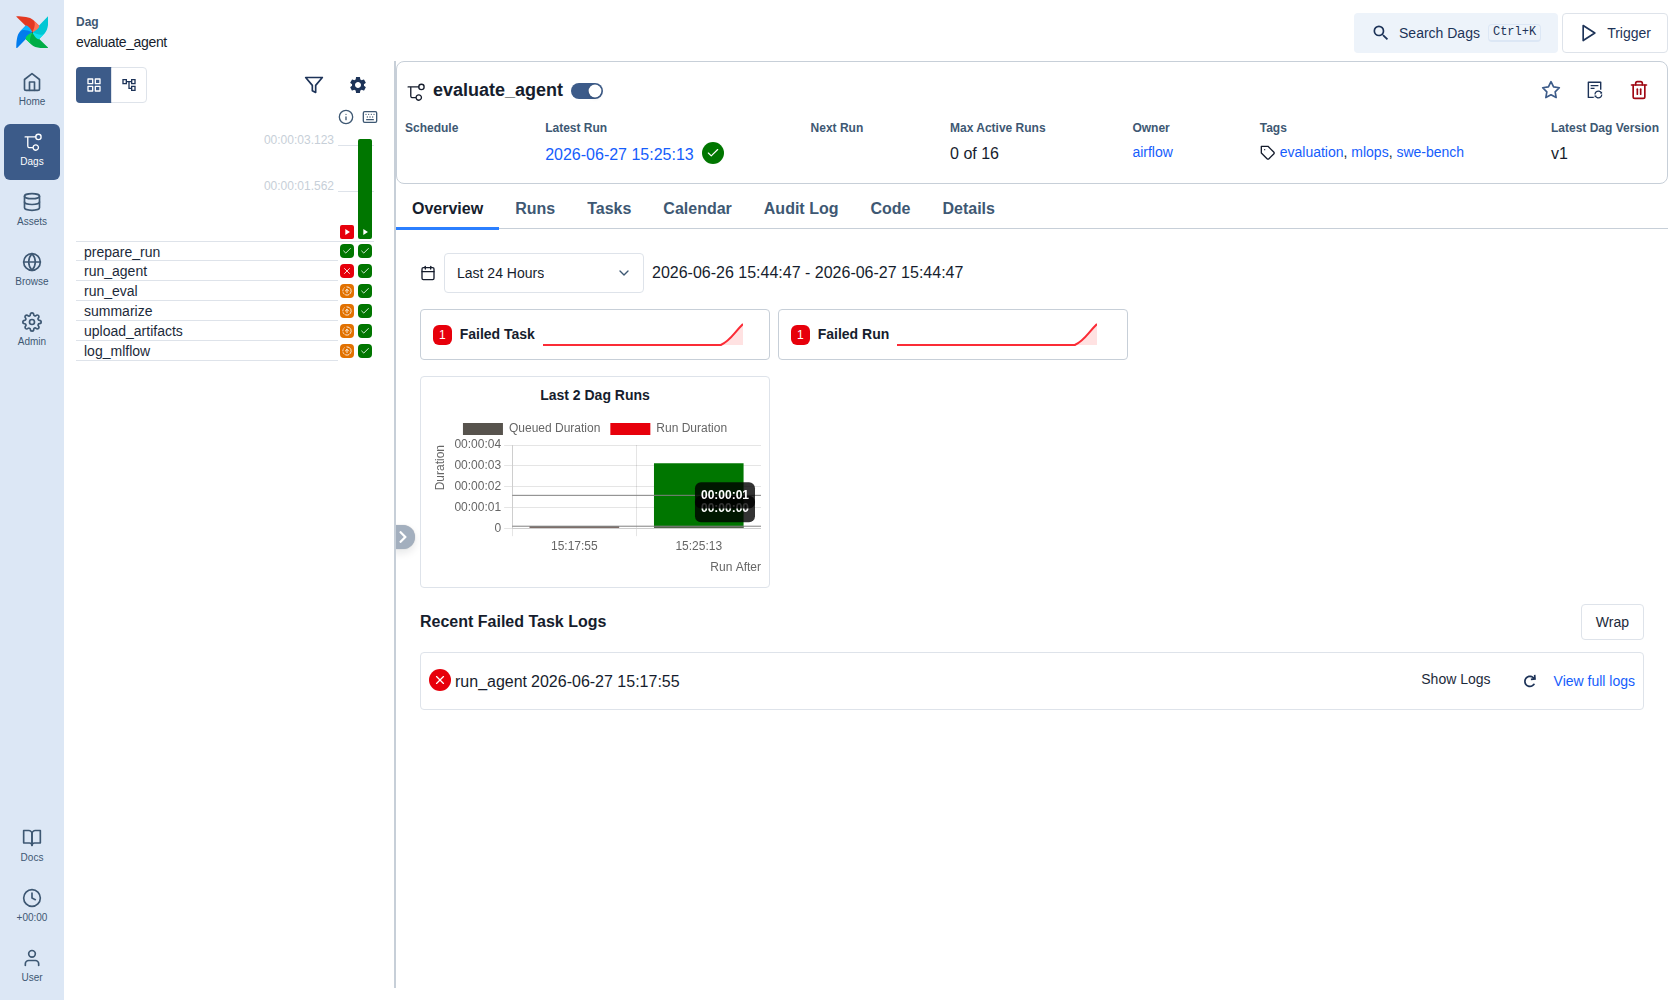
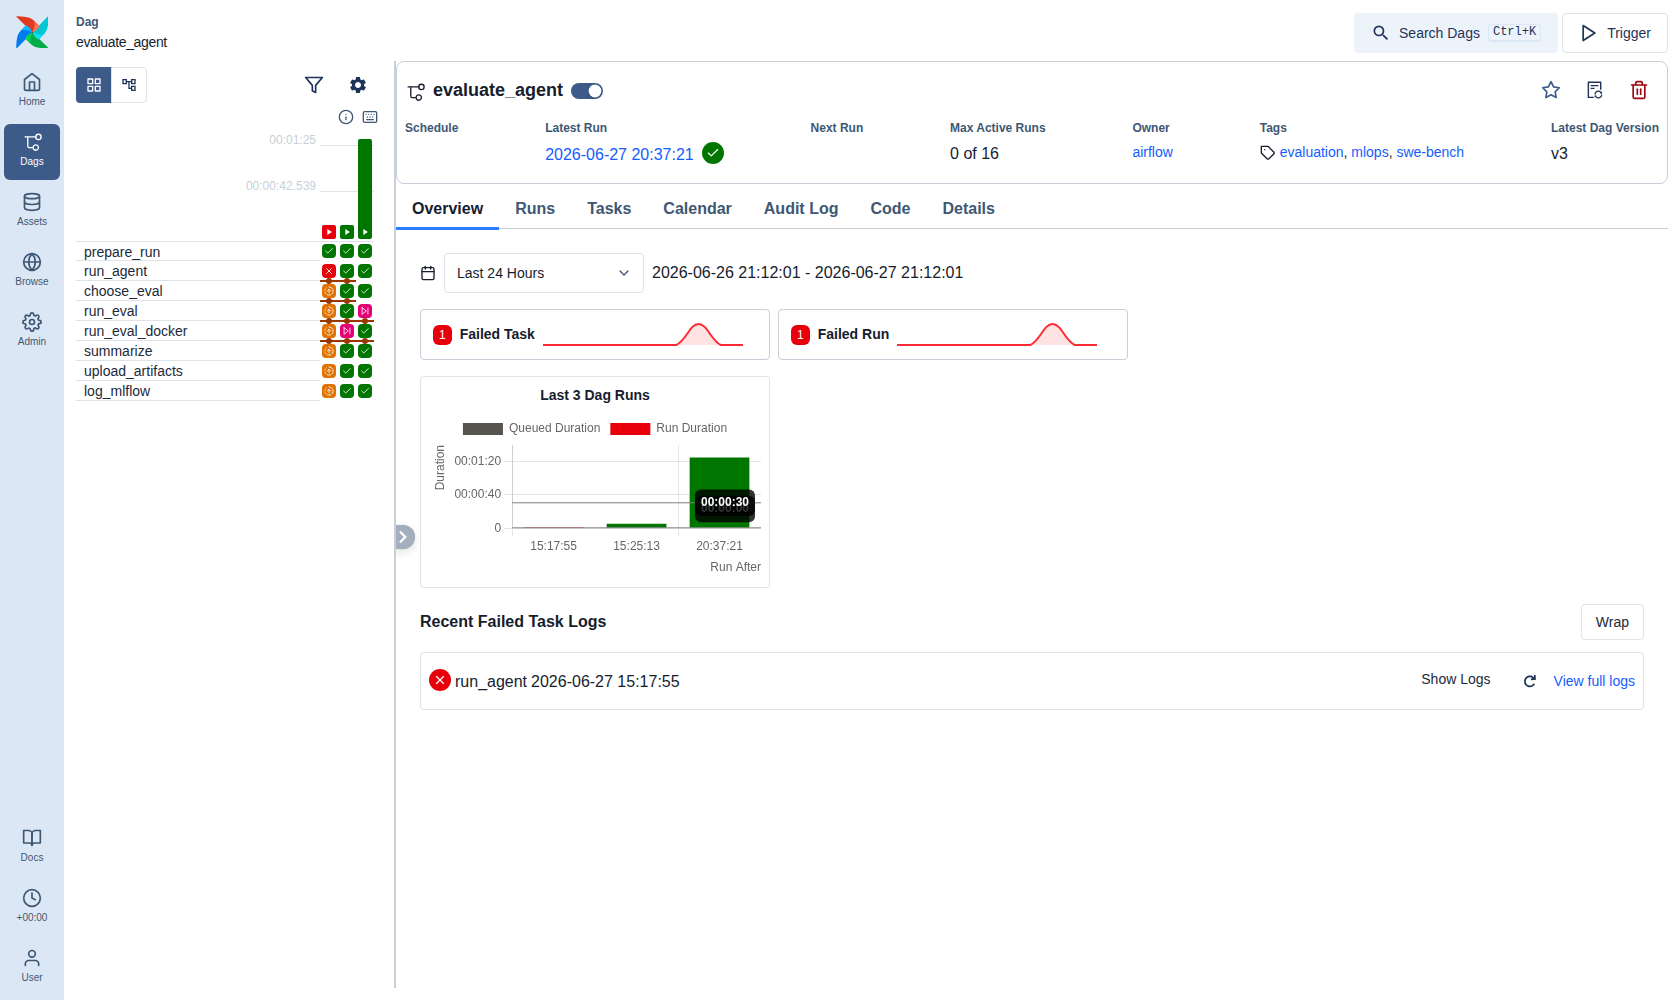
@ Fix DockerOperator command + MLflow screenshot host header
DockerOperator path:
- DockerOperator execs argv directly (no implicit shell), so a string command
  made Docker try to exec `set` ("executable file not found in $PATH"). Wrap as
  ["/bin/sh", "-c", <script>]. Verified e2e on the VM compose stack
  (docker-op-01, eval_executor=docker): choose_eval -> run_eval_docker, eval ran
  in mlops-assignment:latest, instance resolved (resolve_rate 1.0).

MLflow screenshot:
- mlflow_runs.png had captured MLflows DNS-rebinding error page. Cause: the
  --allowed-hosts list had bare 127.0.0.1 but not 127.0.0.1:5000, while the
  capture script navigates to http://127.0.0.1:5000 (MLflow checks host+port).
  Add 127.0.0.1:5000 to --allowed-hosts; re-captured all three screenshots
  (mlflow_runs.png now shows the swe-bench-eval runs table incl. docker-op-01).

@

diff --git a/dags/evaluate_agent.py b/dags/evaluate_agent.py
@@ -188,7 +188,9 @@ def evaluate_agent():
         run_eval_docker = DockerOperator(
             task_id="run_eval_docker",
             image="{{ params.eval_image }}",
-            command=docker_eval_command,
+            # DockerOperator execs argv directly (no implicit shell), so wrap the
+            # script in `sh -c` — otherwise `&&`/`cd`/`set` aren't understood.
+            command=["/bin/sh", "-c", docker_eval_command],
             docker_url="unix:///var/run/docker.sock",
             network_mode="bridge",
             auto_remove="success",

diff --git a/REPORT.md b/REPORT.md
@@ -246,10 +246,13 @@ To use the docker path, build the project image once:
 docker build -t mlops-assignment:latest .
 ```
 
-> **Status:** the `subprocess` path is verified end-to-end (standalone +
-> compose). The `DockerOperator` path is implemented and parses but has **not
-> yet been run end-to-end on the VM** — build the image above and trigger with
-> `eval_executor=docker` to exercise it.
+> **Status:** both paths are verified end-to-end on the VM compose stack. The
+> `DockerOperator` path was confirmed with run `docker-op-01`
+> (`eval_executor=docker`, slice 0:1): `choose_eval` routed to `run_eval_docker`,
+> `run_eval` was skipped, the eval ran in `mlops-assignment:latest`, and the
+> instance resolved (`resolve_rate=1.0`). Note: `DockerOperator` execs `argv`
+> directly, so the eval command is wrapped as `["/bin/sh", "-c", <script>]` —
+> a bare string would try to exec `set`/`cd` as binaries.
 
 For *large-scale* isolated execution the natural next step beyond either is
 `KubernetesPodOperator`.

diff --git a/tasks.md b/tasks.md
@@ -64,7 +64,7 @@ Create `dags/evaluate_agent.py` (or extend existing) with these tasks:
 
 ## Phase 3 — Production polish  *(grading: 10% + 10%)*
 
-- [x] ✅ `DockerOperator` path — eval can run via `DockerOperator` in the project `Dockerfile` image (`run_eval_docker`), selectable per-run with `eval_executor=docker`; default stays the verified subprocess path. `@task.branch` (`choose_eval`) routes; `summarize` uses `none_failed_min_one_success`; import guarded so the DAG parses without the docker provider; compose image now installs `apache-airflow-providers-docker`. ⚠️ Implemented + parses (py_compile) but **not yet run e2e on the VM**.
+- [x] ✅ `DockerOperator` path — eval can run via `DockerOperator` in the project `Dockerfile` image (`run_eval_docker`), selectable per-run with `eval_executor=docker`; default stays the verified subprocess path. `@task.branch` (`choose_eval`) routes; `summarize` uses `none_failed_min_one_success`; import guarded so the DAG parses without the docker provider; compose image installs `apache-airflow-providers-docker`. **Verified e2e** on VM compose (`docker-op-01`, resolve_rate 1.0). Gotcha fixed: command wrapped as `["/bin/sh","-c",...]` (DockerOperator execs argv directly).
 - [x] ✅ `docker-compose.yaml` for Airflow + MLflow + MinIO (+ postgres) — full stack, `docker/Dockerfile.airflow`; **verified end-to-end**: `compose_run_03` all 6 tasks green (agent+eval via DooD, upload→MinIO, log→MLflow server)
 - [x] ✅ MLflow reachable & used by DAG — now an MLflow **server** container (:5000), artifacts on MinIO via `--serve-artifacts`
 - [x] ✅ MinIO (S3) — folded into compose (:9000/:9001), bucket auto-created by `minio-init`, data volume reused